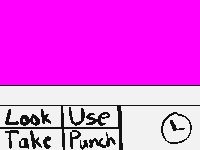
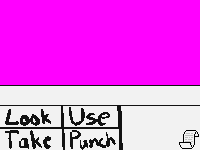
Began inventory

Changed region(s): [[0.78, 0.7467, 1.0, 1.0]]

diff --git a/src/com/naronco/infinityjam/scenes/inventory/Inventory.java b/src/com/naronco/infinityjam/scenes/inventory/Inventory.java
@@ -1,0 +1,146 @@
+package com.naronco.infinityjam.scenes.inventory;
+
+import com.deviotion.ld.eggine.graphics.Font;
+import com.deviotion.ld.eggine.graphics.Screen;
+import com.deviotion.ld.eggine.math.Dimension2d;
+import com.deviotion.ld.eggine.sound.Sound;
+import com.naronco.infinityjam.Game;
+import com.naronco.infinityjam.IQuest;
+import com.naronco.infinityjam.IScene;
+
+import java.util.List;
+
+public class Inventory implements IScene {
+	private static final int PAGE_QUESTS = 0;
+	private static final int PAGE_INVENTORY = 1;
+	private static final int PAGE_OPTIONS = 2;
+
+	private Dimension2d size;
+	private int page = PAGE_QUESTS;
+	private IScene prevScene;
+
+	public Inventory(Dimension2d size) {
+		this.size = size;
+	}
+
+	@Override
+	public void load() {
+	}
+
+	@Override
+	public void enter(IScene prev) {
+		prevScene = prev;
+	}
+
+	@Override
+	public void leave() {
+	}
+
+	@Override
+	public String detailAt(int x, int y) {
+		return null;
+	}
+
+	@Override
+	public void click(int x, int y, int mode) {
+		if (y < 12) {
+			int section = (int) (size.getWidth() / 3.0);
+			if (x < section) {
+				setPage(PAGE_QUESTS);
+			} else if (x < section * 2) {
+				setPage(PAGE_INVENTORY);
+			} else {
+				setPage(PAGE_OPTIONS);
+			}
+		}
+	}
+
+	@Override
+	public void renderBackground(Screen screen) {
+		int section = (int)(size.getWidth() / 3.0);
+
+		screen.renderRectangle(0, 0, size, 0x121212);
+
+		if (page == PAGE_QUESTS) {
+			screen.renderRectangle(0, 1, section - 1, 11, 0xF2F2F2);
+		} else {
+			screen.renderRectangle(0, 1, section - 1, 10, 0xA0A0A0);
+		}
+
+		if (page == PAGE_INVENTORY) {
+			screen.renderRectangle(section, 1, section - 1, 11, 0xF2F2F2);
+		} else {
+			screen.renderRectangle(section, 1, section - 1, 10, 0xA0A0A0);
+		}
+
+		if (page == PAGE_OPTIONS) {
+			screen.renderRectangle(section * 2, 1, section + 2, 11, 0xF2F2F2);
+		} else {
+			screen.renderRectangle(section * 2, 1, section + 2, 10, 0xA0A0A0);
+		}
+
+		screen.renderText(1, 2, Font.standard, "Quests");
+		screen.renderText(1 + section, 2, Font.standard, "Inventar");
+		screen.renderText(1 + section * 2, 2, Font.standard, "Optionen");
+
+		screen.renderRectangle(0, 12, (int)size.getWidth(), (int)size.getHeight() - 12, 0xF2F2F2);
+
+		switch (page) {
+			case PAGE_QUESTS:
+				int halfWidth = (int)(size.getWidth() / 2);
+
+				screen.renderText(1, 13, Font.standard, "Offen");
+				screen.renderRectangle(1, 21,  halfWidth - 7, 1, 0xA0A0A0);
+
+				List<IQuest> quests = Game.instance.getQuests();
+				if (quests.isEmpty()) {
+					screen.renderText(1, 23, Font.standard, "Keine");
+				} else {
+					for (int i = 0; i < quests.size(); ++i) {
+						screen.renderText(1, 23 + i * 9, Font.standard, quests.get(i).getDescription());
+					}
+				}
+
+				screen.renderText(1 + halfWidth, 13, Font.standard, "Abgeschlossen");
+				screen.renderRectangle(1 + halfWidth, 21, halfWidth - 7, 1, 0xA0A0A0);
+
+				List<IQuest> finishedQuests = Game.instance.getFinishedQuests();
+				if (finishedQuests.isEmpty()) {
+					screen.renderText(1 + halfWidth, 23, Font.standard, "Keine");
+				} else {
+					for (int i = 0; i < finishedQuests.size(); ++i) {
+						screen.renderText(1 + halfWidth, 23 + i * 9, Font.standard, finishedQuests.get(i).getDescription());
+					}
+				}
+
+				break;
+			case PAGE_INVENTORY:
+				break;
+			case PAGE_OPTIONS:
+				break;
+		}
+	}
+
+	@Override
+	public void renderForeground(Screen screen) {
+	}
+
+	@Override
+	public void update() {
+	}
+
+	@Override
+	public Sound getBackgroundMusic() {
+		return null;
+	}
+
+	@Override
+	public boolean showsPlayer() {
+		return false;
+	}
+
+	public void setPage(int page) {
+		if (page == this.page) return;
+		this.page = page;
+	}
+}

diff --git a/src/com/naronco/infinityjam/Game.java b/src/com/naronco/infinityjam/Game.java
@@ -5,6 +5,7 @@ import com.deviotion.ld.eggine.graphics.*;
 import com.deviotion.ld.eggine.math.Dimension2d;
 import com.deviotion.ld.eggine.sound.Sound;
 import com.naronco.infinityjam.scenes.*;
+import com.naronco.infinityjam.scenes.inventory.Inventory;
 
 import javax.sound.sampled.AudioFormat;
 import java.io.File;
@@ -141,6 +142,8 @@ public class Game extends Eggine {
 					mode = MODE_USE;
 					mixButton(screen, MODE_USE);
 				}
+			} else if (mx > 200 - 22 && my > 150 - 22) {
+				setScene(new Inventory(new Dimension2d(200, 86)));
 			}
 
 			clickAnimation = new SpriteAnimation(clickSheet, 0, 7, 30);
@@ -334,5 +337,13 @@ public class Game extends Eggine {
 
 	public Character getPlayer() {
 		return player;
+	}
+
+	public List<IQuest> getQuests() {
+		return quests;
+	}
+
+	public List<IQuest> getFinishedQuests() {
+		return finishedQuests;
 	}
 }

diff --git a/src/com/naronco/infinityjam/quests/DrugDealerVisitQuest.java b/src/com/naronco/infinityjam/quests/DrugDealerVisitQuest.java
@@ -16,4 +16,9 @@ public class DrugDealerVisitQuest implements IQuest {
 	public List<Item> getRewards() {
 		return new ArrayList<>();
 	}
+
+	@Override
+	public String getDescription() {
+		return "DrugDealerVisitQuest";
+	}
 }

diff --git a/src/com/naronco/infinityjam/quests/DrugDealerQuest.java b/src/com/naronco/infinityjam/quests/DrugDealerQuest.java
@@ -17,4 +17,9 @@ public class DrugDealerQuest implements IQuest {
 	public List<Item> getRewards() {
 		return Arrays.asList(Item.DRUG);
 	}
+
+	@Override
+	public String getDescription() {
+		return "DrugDealerQuest";
+	}
 }

diff --git a/src/com/naronco/infinityjam/IQuest.java b/src/com/naronco/infinityjam/IQuest.java
@@ -5,4 +5,5 @@ import java.util.List;
 public interface IQuest {
 	void activate();
 	List<Item> getRewards();
+	String getDescription();
 }
